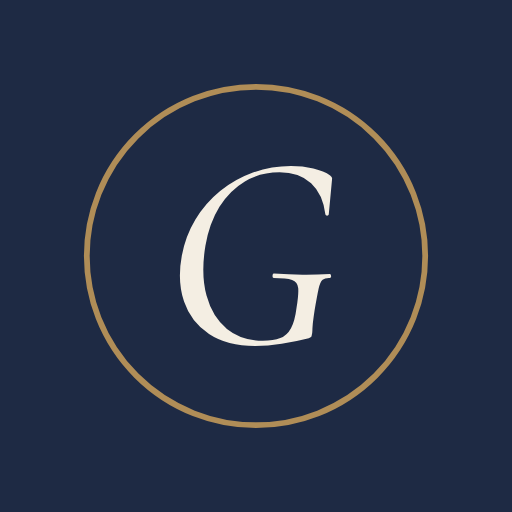
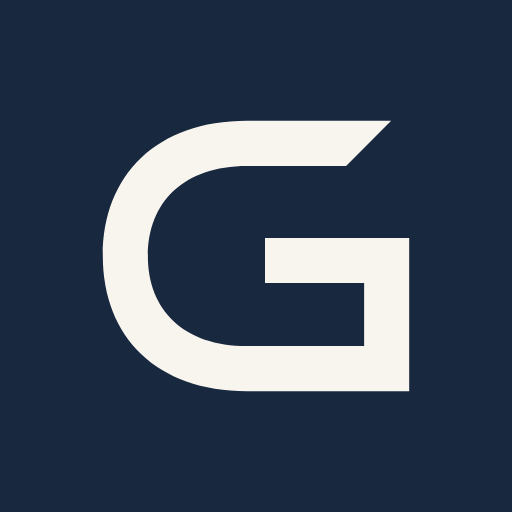
Refine the brand with a geometric G monogram

Changed region(s): [[0.1562, 0.1562, 0.8438, 0.8438]]

diff --git a/public/css/style.css b/public/css/style.css
@@ -69,12 +69,12 @@ section[id] { scroll-margin-top: 110px; }
 .nav-links a { font-size: 10px; letter-spacing: .12em; text-transform: uppercase; text-decoration: none; position: relative; }
 .nav-links a::after { content: ""; height: 1px; background: var(--gold); position: absolute; left: 0; right: 100%; bottom: -5px; transition: right .35s; }
 .nav-links a:hover::after, .nav-links a[aria-current="location"]::after { right: 0; }
-.wordmark { display: flex; gap: 12px; align-items: center; text-decoration: none; line-height: 1; }
+.wordmark { display: flex; gap: 10px; align-items: center; text-decoration: none; line-height: 1; }
 .wm-mark { width: 45px; height: 45px; flex: none; }
 .wm-text { display: flex; flex-direction: column; align-items: flex-start; }
-.wm-small { color: var(--gold); font: 400 9px/1 var(--sans); letter-spacing: .35em; text-transform: uppercase; }
-.wm-big { white-space: nowrap; font: italic 400 34px/1.05 var(--serif); }
-.wm-text .wm-small { margin-bottom: 3px; }
+.wm-small { color: var(--gold); font: 400 8px/1 var(--sans); letter-spacing: .28em; text-transform: uppercase; }
+.wm-big { white-space: nowrap; font: 500 30px/1.1 var(--sans); letter-spacing: .12em; text-transform: uppercase; }
+.wm-text .wm-small { margin-bottom: 5px; }
 .box-btn { display: inline-flex; align-items: center; gap: 18px; min-height: 42px; padding: 8px 14px; border: 1px solid var(--line); border-radius: 2px; background: transparent; color: var(--navy); font: 400 10px/1 var(--sans); letter-spacing: .12em; text-transform: uppercase; cursor: pointer; transition: border-color .3s; }
 .box-btn:hover { border-color: var(--navy); }
 .box-count { display: inline-grid; place-items: center; min-width: 22px; height: 22px; padding: 0 5px; border-radius: 50%; background: var(--cream); font-size: 11px; letter-spacing: 0; }
@@ -176,8 +176,9 @@ section[id] { scroll-margin-top: 110px; }
 .gift-box { position: relative; width: 280px; height: 210px; background: var(--cream); transform: rotate(-10deg); border: 7px solid #e5ded0; box-shadow: 14px 20px 0 #d7cbb6, 24px 40px 40px rgba(0,0,0,.2); }
 .gift-ribbon { position: absolute; inset: -8px 95px -8px auto; width: 32px; background: #223550; box-shadow: inset 1px 0 0 rgba(255,255,255,.15); }
 .gift-ribbon-cross { position: absolute; left: -8px; right: -8px; top: 50px; height: 30px; background: #223550; }
-.gift-seal { position: absolute; top: 41px; right: 87px; width: 48px; height: 48px; display: grid; place-items: center; border-radius: 50%; border: 3px double #dfc69f; color: var(--navy); background: #bb9865; font: italic 400 32px/1 var(--serif); box-shadow: 2px 3px 4px rgba(0,0,0,.18); }
-.gift-inscription { position: absolute; bottom: 26px; left: 20px; font: italic 400 21px/1.3 var(--serif); }
+.gift-seal { position: absolute; top: 41px; right: 87px; width: 48px; height: 48px; display: grid; place-items: center; border-radius: 50%; border: 3px double #dfc69f; background: #bb9865; box-shadow: 2px 3px 4px rgba(0,0,0,.18); }
+.gift-inscription { position: absolute; bottom: 26px; left: 20px; width: calc(100% - 157px); max-width: 110px; }
+.gift-inscription > img { width: 100%; height: auto; }
 .gift-inscription small { display: block; margin-top: 8px; color: var(--gold); font: 400 7px/1 var(--sans); letter-spacing: .09em; }
 .gift-caption { position: absolute; bottom: -14px; color: var(--gold-soft); font: italic 400 19px/1.3 var(--serif); text-align: center; }
 .commander { padding: 100px var(--gutter); max-width: 1440px; margin: 0 auto; }
@@ -199,9 +200,9 @@ section[id] { scroll-margin-top: 110px; }
 .faq-more a { display: inline-block; margin-left: 12px; color: var(--navy); text-decoration: none; border-bottom: 1px solid var(--gold-soft); }
 .footer { padding: 70px var(--gutter) 25px; color: #c8cdd0; background: var(--navy-deep); }
 .footer-brand { display: flex; flex-direction: column; align-items: center; text-align: center; color: var(--paper); margin-bottom: 45px; }
-.footer-brand .wm-big { font-size: 64px; }
-.footer-brand .wm-small { color: var(--gold-soft); }
-.footer-mark { width: 46px; height: 46px; margin-bottom: 20px; }
+.footer-brand .wm-big { font-size: 44px; letter-spacing: .16em; text-indent: .16em; }
+.footer-brand .wm-small { color: var(--gold-soft); margin-bottom: 9px; }
+.footer-mark { width: 58px; height: 58px; margin-bottom: 17px; }
 .footer-tag { color: var(--gold-soft); margin: 15px 0 0 !important; font-size: 9px !important; letter-spacing: .2em; text-transform: uppercase; }
 .footer-cols { max-width: var(--wrap); margin: 0 auto; display: grid; grid-template-columns: repeat(3,1fr); gap: 30px; text-align: center; border-top: 1px solid rgba(255,255,255,.13); border-bottom: 1px solid rgba(255,255,255,.13); padding: 30px 0; }
 .footer h4 { color: var(--gold-soft); font: 400 9px/1.5 var(--sans); letter-spacing: .18em; text-transform: uppercase; margin: 0 0 13px; }
@@ -374,7 +375,7 @@ section[id] { scroll-margin-top: 110px; }
   .wm-mark { width: 37px; height: 37px; }
   .wordmark { gap: 9px; }
   .wm-small { font-size: 7px; }
-  .wm-big { font-size: 29px; }
+  .wm-big { font-size: 24px; }
   .box-btn { min-height: 42px; padding: 8px 10px; gap: 12px; font-size: 9px; }
   .hero { grid-template-columns: minmax(0,1fr); padding-top: 38px; gap: 0; }
   .hero-text { padding: 0; }
@@ -441,7 +442,7 @@ section[id] { scroll-margin-top: 110px; }
   .faq-more a { margin-left: 0; }
   .footer { padding-top: 55px; }
   .footer-cols { grid-template-columns: 1fr; gap: 28px; }
-  .footer-brand .wm-big { font-size: 56px; }
+  .footer-brand .wm-big { font-size: 38px; }
   .copyright { line-height: 2; font-size: 8px !important; }
   .ask span { display: none; }
   .ask { padding: 13px; right: 16px; bottom: calc(16px + env(safe-area-inset-bottom)); }

diff --git a/public/index.html b/public/index.html
@@ -11,17 +11,17 @@
   <meta property="og:url" content="https://maison-mariam.vercel.app/">
   <meta property="og:title" content="Maison de Gaby · Desserts worth the wait">
   <meta property="og:description" content="Desserts baked by hand in Heliopolis, Cairo, boxed like a gift. Order a day ahead on WhatsApp.">
-  <meta property="og:image" content="https://maison-mariam.vercel.app/assets/og.jpg">
+  <meta property="og:image" content="https://maison-mariam.vercel.app/assets/og.jpg?v=2">
   <meta property="og:image:width" content="1200">
   <meta property="og:image:height" content="630">
   <meta property="og:image:alt" content="Maison de Gaby, patisserie in Heliopolis, Cairo">
   <meta name="twitter:card" content="summary_large_image">
   <meta name="theme-color" content="#18283f">
-  <link rel="icon" href="assets/favicon-g.svg" type="image/svg+xml">
-  <link rel="apple-touch-icon" href="assets/apple-touch-icon.png">
-  <link rel="manifest" href="site.webmanifest">
+  <link rel="icon" href="assets/favicon-g.svg?v=2" type="image/svg+xml">
+  <link rel="apple-touch-icon" href="assets/apple-touch-icon.png?v=2">
+  <link rel="manifest" href="site.webmanifest?v=2">
   <link rel="preload" as="image" href="assets/photos/milk-cloud.jpg" fetchpriority="high">
-  <link rel="stylesheet" href="css/style.css?v=4">
+  <link rel="stylesheet" href="css/style.css?v=5">
   <link rel="stylesheet" href="css/cards.css?v=1">
   <link rel="stylesheet" href="assets/vendor/leaflet/leaflet.css">
   <link rel="stylesheet" href="css/delivery.css?v=1">
@@ -37,8 +37,8 @@
     "name": "Maison de Gaby",
     "description": "Home patisserie in Heliopolis, Cairo. Desserts baked to order and delivered across Cairo.",
     "url": "https://maison-mariam.vercel.app/",
-    "image": "https://maison-mariam.vercel.app/assets/og.jpg",
-    "logo": "https://maison-mariam.vercel.app/assets/icon-512.png",
+    "image": "https://maison-mariam.vercel.app/assets/og.jpg?v=2",
+    "logo": "https://maison-mariam.vercel.app/assets/icon-512.png?v=2",
     "telephone": "+201550505386",
     "servesCuisine": "French patisserie",
     "priceRange": "EGP",
@@ -67,7 +67,7 @@
       <a href="#story">Our story</a>
     </nav>
     <a class="wordmark" href="#top" aria-label="Maison de Gaby home">
-      <img class="wm-mark" src="assets/mark.svg" alt="" width="46" height="46">
+      <img class="wm-mark" src="assets/mark.svg?v=2" alt="" width="46" height="46">
       <span class="wm-text">
         <span class="wm-small">Maison de</span>
         <span class="wm-big">Gaby</span>
@@ -154,7 +154,7 @@
       </div>
       <div class="emb-visual reveal" aria-hidden="true">
         <div class="gift-orbit"></div>
-        <div class="gift-box"><div class="gift-ribbon"></div><div class="gift-ribbon-cross"></div><div class="gift-seal">G</div><span class="gift-inscription">Maison de Gaby<br><small>Made with care, in Cairo.</small></span></div>
+        <div class="gift-box"><div class="gift-ribbon"></div><div class="gift-ribbon-cross"></div><div class="gift-seal"><img src="assets/mark.svg?v=2" alt="" width="36" height="36"></div><span class="gift-inscription"><img src="assets/logo.svg?v=2" alt="" width="140" height="51"><small>Made with care, in Cairo.</small></span></div>
         <span class="gift-caption">A thoughtful gesture, beautifully wrapped.</span>
       </div>
     </section>
@@ -222,7 +222,7 @@
 
   <footer class="footer">
     <div class="footer-brand">
-      <img class="footer-mark" src="assets/mark-light.svg" alt="" width="56" height="56">
+      <img class="footer-mark" src="assets/mark-light.svg?v=2" alt="" width="56" height="56">
       <span class="wm-small">Maison de</span>
       <span class="wm-big">Gaby</span>
       <p class="footer-tag">Heliopolis · Cairo</p>

diff --git a/public/packaging.html b/public/packaging.html
@@ -6,9 +6,9 @@
   <title>The Art of Giving · Maison de Gaby</title>
   <meta name="description" content="A little ceremony, before the first bite. Discover Maison de Gaby's signature packaging and handwritten gift cards.">
   <meta name="theme-color" content="#18283f">
-  <link rel="icon" href="assets/favicon-g.svg" type="image/svg+xml">
-  <link rel="apple-touch-icon" href="assets/apple-touch-icon.png">
-  <link rel="stylesheet" href="css/style.css?v=4">
+  <link rel="icon" href="assets/favicon-g.svg?v=2" type="image/svg+xml">
+  <link rel="apple-touch-icon" href="assets/apple-touch-icon.png?v=2">
+  <link rel="stylesheet" href="css/style.css?v=5">
   <link rel="stylesheet" href="css/packaging.css?v=6">
   <link rel="stylesheet" href="css/cards.css?v=1">
   <script src="js/cards.js?v=1" defer></script>
@@ -22,7 +22,7 @@
       <a href="./#story"><span class="nav-index" aria-hidden="true">02</span> Our story</a>
     </nav>
     <a class="wordmark" href="./" aria-label="Maison de Gaby home">
-      <img class="wm-mark" src="assets/mark.svg" alt="" width="46" height="46">
+      <img class="wm-mark" src="assets/mark.svg?v=2" alt="" width="46" height="46">
       <span class="wm-text"><span class="wm-small">Maison de</span><span class="wm-big">Gaby</span></span>
     </a>
     <nav class="nav-links nav-right" aria-label="Secondary">
@@ -57,10 +57,10 @@
           <!-- wax seal -->
           <circle cx="200" cy="157" r="15" fill="#9B784B"/>
           <circle cx="200" cy="157" r="11" fill="none" stroke="#7B5C36" stroke-width="1"/>
-          <text x="200" y="164" text-anchor="middle" font-family="Cormorant Garamond, Georgia, serif" font-style="italic" font-size="19" fill="#18283F">G</text>
+          <image href="assets/mark.svg?v=2" x="187" y="144" width="26" height="26"/>
           <!-- wordmark on lid -->
           <text x="116" y="222" text-anchor="middle" font-family="Jost, sans-serif" font-size="7" letter-spacing="3" fill="#9B784B">MAISON DE</text>
-          <text x="116" y="240" text-anchor="middle" font-family="Cormorant Garamond, Georgia, serif" font-style="italic" font-size="20" fill="#18283F">Gaby</text>
+          <text x="116" y="240" text-anchor="middle" font-family="Jost, sans-serif" font-weight="500" font-size="18" letter-spacing="2" fill="#18283F">GABY</text>
           <text x="284" y="232" text-anchor="middle" font-family="Jost, sans-serif" font-size="6.5" letter-spacing="2.5" fill="#18283F">HELIOPOLIS</text>
         </svg></div>
         <figcaption><span>01 / The signature box</span><span>Ivory. Navy. A touch of gold.</span></figcaption>
@@ -79,7 +79,7 @@
           <text font-family="Cormorant Garamond, Georgia, serif" font-size="15" fill="#9B784B">
             <textPath href="#sealRing" textLength="532" lengthAdjust="spacing">HANDMADE · IN CAIRO · WITH LOVE ·</textPath>
           </text>
-          <text x="150" y="176" text-anchor="middle" font-family="Cormorant Garamond, Georgia, serif" font-style="italic" font-size="78" fill="#F6F2E9">G</text>
+          <image href="assets/mark-light.svg?v=2" x="94" y="94" width="112" height="112"/>
         </svg></div>
       <div class="piece-text">
         <p class="eyebrow">02 / The finishing touch</p>
@@ -130,7 +130,7 @@
 
   <footer class="footer">
     <div class="footer-brand">
-      <img class="footer-mark" src="assets/mark-light.svg" alt="" width="56" height="56">
+      <img class="footer-mark" src="assets/mark-light.svg?v=2" alt="" width="56" height="56">
       <span class="wm-small">Maison de</span><span class="wm-big">Gaby</span>
       <p class="footer-tag">A little heritage. A little everyday magic.</p>
     </div>

diff --git a/public/admin.html b/public/admin.html
@@ -5,17 +5,17 @@
   <meta name="viewport" content="width=device-width, initial-scale=1">
   <title>Studio Admin · Maison de Gaby</title>
   <meta name="robots" content="noindex, nofollow">
-  <meta name="theme-color" content="#1E2A44">
-  <link rel="icon" href="assets/favicon-g.svg" type="image/svg+xml">
-  <link rel="apple-touch-icon" href="assets/apple-touch-icon.png">
-  <link rel="stylesheet" href="css/style.css?v=4">
-  <link rel="stylesheet" href="css/admin.css?v=2">
+  <meta name="theme-color" content="#18283f">
+  <link rel="icon" href="assets/favicon-g.svg?v=2" type="image/svg+xml">
+  <link rel="apple-touch-icon" href="assets/apple-touch-icon.png?v=2">
+  <link rel="stylesheet" href="css/style.css?v=5">
+  <link rel="stylesheet" href="css/admin.css?v=3">
 </head>
 <body class="admin">
 
   <header class="ad-head">
     <a class="wordmark" href="./" target="_blank" rel="noopener" aria-label="Open the website">
-      <img class="wm-mark" src="assets/mark.svg" alt="" width="40" height="40">
+      <img class="wm-mark" src="assets/mark.svg?v=2" alt="" width="40" height="40">
       <span class="wm-text">
         <span class="wm-small">Maison de</span>
         <span class="wm-big">Gaby</span>

diff --git a/public/404.html b/public/404.html
@@ -5,9 +5,9 @@
   <meta name="viewport" content="width=device-width, initial-scale=1">
   <title>Page not found · Maison de Gaby</title>
   <meta name="robots" content="noindex">
-  <meta name="theme-color" content="#1E2A44">
-  <link rel="icon" href="/assets/favicon-g.svg" type="image/svg+xml">
-  <link rel="stylesheet" href="/css/style.css?v=4">
+  <meta name="theme-color" content="#18283f">
+  <link rel="icon" href="/assets/favicon-g.svg?v=2" type="image/svg+xml">
+  <link rel="stylesheet" href="/css/style.css?v=5">
   <style>
     .lost { min-height: 100vh; display: grid; place-content: center; text-align: center; padding: 40px 16px; }
     .lost img { width: 64px; height: 64px; margin: 0 auto 30px; }
@@ -17,7 +17,7 @@
 </head>
 <body>
   <main class="lost">
-    <img src="/assets/mark.svg" alt="" width="64" height="64">
+    <img src="/assets/mark.svg?v=2" alt="" width="64" height="64">
     <p class="eyebrow">Page not found</p>
     <h1>This page has <em>gone missing.</em></h1>
     <p>Perhaps it was eaten. The desserts are all still here, though.</p>

diff --git a/public/css/admin.css b/public/css/admin.css
@@ -10,6 +10,7 @@ body.admin { background: var(--cream); min-height: 100vh; padding-bottom: 110px;
 }
 .ad-head .wm-mark { width: 40px; height: 40px; }
 .ad-head .wm-big { font-size: 26px; }
+.ad-head .wordmark { gap: 8px; }
 .ad-links { display: flex; gap: 18px; align-items: center; font-size: 11px; letter-spacing: .2em; text-transform: uppercase; }
 .ad-links a { text-decoration: none; }
 .link-btn { background: none; border: 0; padding: 0; font: inherit; letter-spacing: inherit; text-transform: inherit; color: var(--muted); text-decoration: none; cursor: pointer; }
@@ -216,5 +217,10 @@ body.admin { background: var(--cream); min-height: 100vh; padding-bottom: 110px;
 }
 
 @media (max-width: 360px) {
+  .ad-head { padding-inline: 12px; }
+  .ad-head .wordmark { gap: 6px; }
+  .ad-head .wm-mark { width: 36px; height: 36px; }
+  .ad-head .wm-big { font-size: 24px; }
+  .ad-links { gap: 12px; font-size: 10px; letter-spacing: .12em; white-space: nowrap; }
   .ad-tab { font-size: 10px; letter-spacing: .16em; }
 }

diff --git a/scripts/render-brand.py b/scripts/render-brand.py
@@ -1,0 +1,117 @@
+"""Render brand exports from the SVG mark, bundled Jost fonts, and unchanged stock photos.
+Optional asset utility: requires Python Playwright, FontTools and Brotli; no website build step.
+"""
+import shutil
+import threading
+from functools import partial
+from http.server import SimpleHTTPRequestHandler, ThreadingHTTPServer
+from pathlib import Path
+from xml.etree import ElementTree
+
+from fontTools.pens.svgPathPen import SVGPathPen
+from fontTools.ttLib import TTFont
+from playwright.sync_api import sync_playwright
+
+ROOT = Path(__file__).resolve().parents[1]
+ASSETS = ROOT / 'public/assets'
+NS = '{http://www.w3.org/2000/svg}'
+NAVY, PAPER, GOLD = '#18283f', '#f8f5ee', '#cbb38e'
+
+
+def outlined_text(value, filename, x, baseline, size, spacing):
+    font = TTFont(ASSETS / 'fonts' / filename)
+    glyphs, cmap = font.getGlyphSet(), font.getBestCmap()
+    scale = size / font['head'].unitsPerEm
+    paths = []
+    for char in value:
+        name = cmap[ord(char)]
+        pen = SVGPathPen(glyphs)
+        glyphs[name].draw(pen)
+        if pen.getCommands():
+            paths.append(f'<path transform="translate({x:.3f} {baseline}) scale({scale:.6f} {-scale:.6f})" d="{pen.getCommands()}"/>')
+        x += font['hmtx'][name][0] * scale + spacing
+    font.close()
+    return '\n'.join(paths), x
+
+
+def write_lockups(mark):
+    small, _ = outlined_text('MAISON DE', 'jost-latin-400-normal.woff2', 110, 30, 11, 3.2)
+    name, right = outlined_text('GABY', 'jost-latin-500-normal.woff2', 108, 78, 52, 4)
+    width = round(right + 13)
+    for filename, foreground, accent in [('logo.svg', NAVY, '#8b6538'), ('logo-light.svg', PAPER, GOLD)]:
+        source = f'''<svg xmlns="http://www.w3.org/2000/svg" viewBox="0 0 {width} 100" role="img" aria-label="Maison de Gaby">
+  <title>Maison de Gaby</title>
+  <!-- Letterforms outlined from bundled Jost; see fonts/jost-LICENSE.txt. -->
+  <path fill="{foreground}" d="{mark}"/>
+  <g fill="{accent}">{small}</g>
+  <g fill="{foreground}">{name}</g>
+</svg>
+'''
+        (ASSETS / filename).write_text(source)
+    return width
+
+
+class Handler(SimpleHTTPRequestHandler):
+    def log_message(self, *_args):
+        pass
+
+
+def render():
+    mark = ElementTree.parse(ASSETS / 'mark.svg').getroot().find(NS + 'path').attrib['d']
+    logo_width = write_lockups(mark)
+    server = ThreadingHTTPServer(('127.0.0.1', 0), partial(Handler, directory=str(ROOT / 'public')))
+    thread = threading.Thread(target=server.serve_forever, daemon=True)
+    thread.start()
+    base = 'http://127.0.0.1:' + str(server.server_port)
+    try:
+        with sync_playwright() as playwright:
+            executable = shutil.which('chromium')
+            browser = playwright.chromium.launch(**({'executable_path': executable} if executable else {}), args=['--no-sandbox'])
+            page = browser.new_page(device_scale_factor=1)
+            page.route('**/*', lambda route: route.continue_() if route.request.url.startswith(base + '/') else route.abort())
+            page.goto(base + '/404.html')
+            for size, filename in [(180, 'apple-touch-icon.png'), (192, 'icon-192.png'), (512, 'icon-512.png')]:
+                page.set_viewport_size({'width': size, 'height': size})
+                page.set_content(f'''<!doctype html><html><body style="margin:0;background:{NAVY}">
+<svg xmlns="http://www.w3.org/2000/svg" viewBox="0 0 100 100" width="{size}" height="{size}" style="display:block">
+<rect width="100" height="100" fill="{NAVY}"/>
+<g transform="translate(6 6) scale(.88)"><path fill="{PAPER}" d="{mark}"/></g></svg></body></html>''')
+                page.screenshot(path=str(ASSETS / filename))
+            for filename in ['logo', 'logo-light']:
+                width, height = 1200, round(120000 / logo_width)
+                page.set_viewport_size({'width': width, 'height': height})
+                page.set_content(f'''<!doctype html><html><body style="margin:0;background:transparent">
+<img src="{base}/assets/{filename}.svg" width="{width}" height="{height}" style="display:block" alt="Maison de Gaby"></body></html>''')
+                page.wait_for_function('document.images[0].complete && document.images[0].naturalWidth>0')
+                page.screenshot(path=str(ASSETS / (filename + '.png')), omit_background=True)
+            page.set_viewport_size({'width': 1200, 'height': 630})
+            page.set_content(f'''<!doctype html><html><head><style>
+@font-face{{font-family:Jost;src:url('{base}/assets/fonts/jost-latin-400-normal.woff2')}}
+@font-face{{font-family:Jost;src:url('{base}/assets/fonts/jost-latin-500-normal.woff2');font-weight:500}}
+@font-face{{font-family:Cormorant;src:url('{base}/assets/fonts/cormorant-garamond-latin-400-italic.woff2');font-style:italic}}
+*{{box-sizing:border-box}}body{{margin:0;width:1200px;height:630px;background:{NAVY};color:{PAPER}}}
+.brand{{position:absolute;left:58px;top:67px;width:480px;height:170px;object-fit:contain;object-position:left center}}
+.message{{position:absolute;left:70px;top:348px;margin:0;font:italic 34px/1.3 Cormorant,Georgia,serif}}
+.location{{position:absolute;left:70px;right:670px;bottom:98px;padding-top:24px;border-top:1px solid #cbb38e66;color:{GOLD};font:400 10px Jost,sans-serif;letter-spacing:3.8px}}
+.art{{position:absolute;left:600px;top:0;width:600px;height:630px;background:{PAPER}}}
+.arch{{position:absolute;left:54px;top:54px;width:430px;height:576px;border-radius:230px 230px 0 0;overflow:hidden}}
+.arch::after{{content:'';position:absolute;inset:0;border:1px solid #cbb38e55;border-radius:inherit}}
+.arch img{{width:100%;height:100%;object-fit:cover;object-position:57% center}}
+.inset{{position:absolute;right:38px;bottom:38px;width:178px;height:178px;border-radius:50%;border:6px solid {PAPER};object-fit:cover}}
+</style></head><body>
+<img class="brand" src="{base}/assets/logo-light.svg" alt="Maison de Gaby">
+<p class="message">Desserts worth the wait.</p><div class="location">PATISSERIE · HELIOPOLIS · CAIRO</div>
+<div class="art"><div class="arch"><img src="{base}/assets/photos/milk-cloud.jpg" alt=""></div>
+<img class="inset" src="{base}/assets/photos/cinnamon-kisses.jpg" alt=""></div></body></html>''')
+            page.evaluate('document.fonts.ready')
+            page.wait_for_function('Array.from(document.images).every(image=>image.complete && image.naturalWidth>0)')
+            page.screenshot(path=str(ASSETS / 'og.jpg'), type='jpeg', quality=92)
+            browser.close()
+    finally:
+        server.shutdown()
+        server.server_close()
+    print('Rendered outlined SVG/transparent PNG wordmarks, 180/192/512px app icons, and 1200×630 link preview.')
+
+
+if __name__ == '__main__':
+    render()

diff --git a/README.md b/README.md
@@ -140,6 +140,18 @@ or calls a rider; an existing system Chromium is used when available.
 With the same Playwright setup, `npm run test:menu` checks the customer menu on mobile and desktop,
 cart totals, WhatsApp drafts, removal of saved retired/sold-out items, and cart preservation during menu outages.
 
+## Logo assets
+
+The identity pairs a geometric G with an uppercase Jost wordmark. `public/assets/mark.svg` and
+`mark-light.svg` are the monochrome symbols; `logo.svg` and `logo-light.svg` are complete, outlined SVG
+logos for reuse without installing fonts. Matching `logo.png` and `logo-light.png` have transparent backgrounds.
+The website wordmark uses accessible text and the bundled Jost font.
+
+The favicon, touch/app icons and link preview use the same mark. The optional `scripts/render-brand.py`
+utility regenerates the outlined logos, PNG icons and `og.jpg` from the mark, bundled fonts and existing
+stock photos. It requires Python Playwright with Chromium, FontTools and Brotli. Hosting uses the committed
+assets directly.
+
 ## Photos
 
 The starting photos in `public/assets/photos/` are stand-ins from Unsplash (free for commercial use under the

diff --git a/AGENTS.md b/AGENTS.md
@@ -57,6 +57,8 @@ If you need to change the other agent's area, keep the change small and note it 
 
 Newest first. One or two lines each: date, agent, what changed, what's left.
 
+- 2026-10-29 · Codex: simplified the logo to a geometric G and Jost wordmark across the site, packaging, icons and OG.
+  Added SVG/transparent PNG exports and an optional renderer; responsive, menu, 19 API and 8 courier checks pass.
 - 2026-10-29 · Codex: owner confirmed all five cakes are 20 × 20 cm; updated public menu introduction and starter data.
   Per-item sizes in the separately stored live menu still need admin publication; no live menu was overwritten.
 - 2026-10-29 · Codex: reviewed the five-dessert menu; fixed saved-cart cleanup. 19 API and customer browser checks pass.
